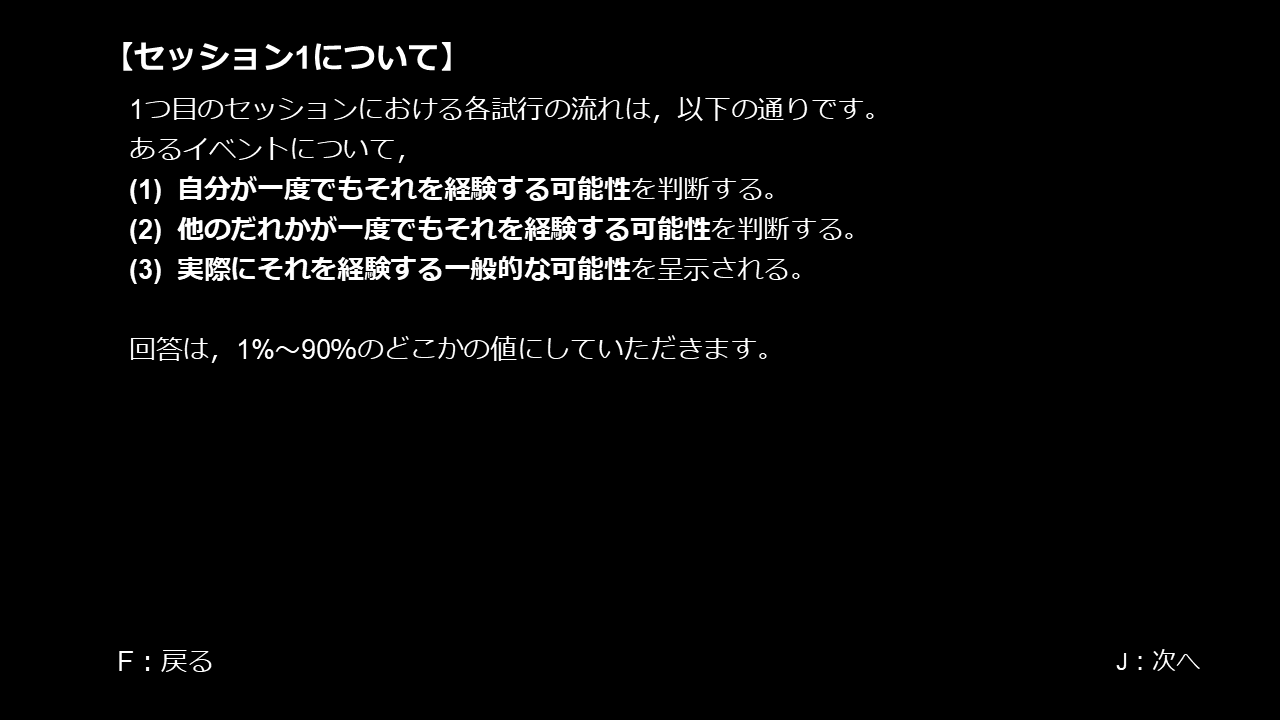
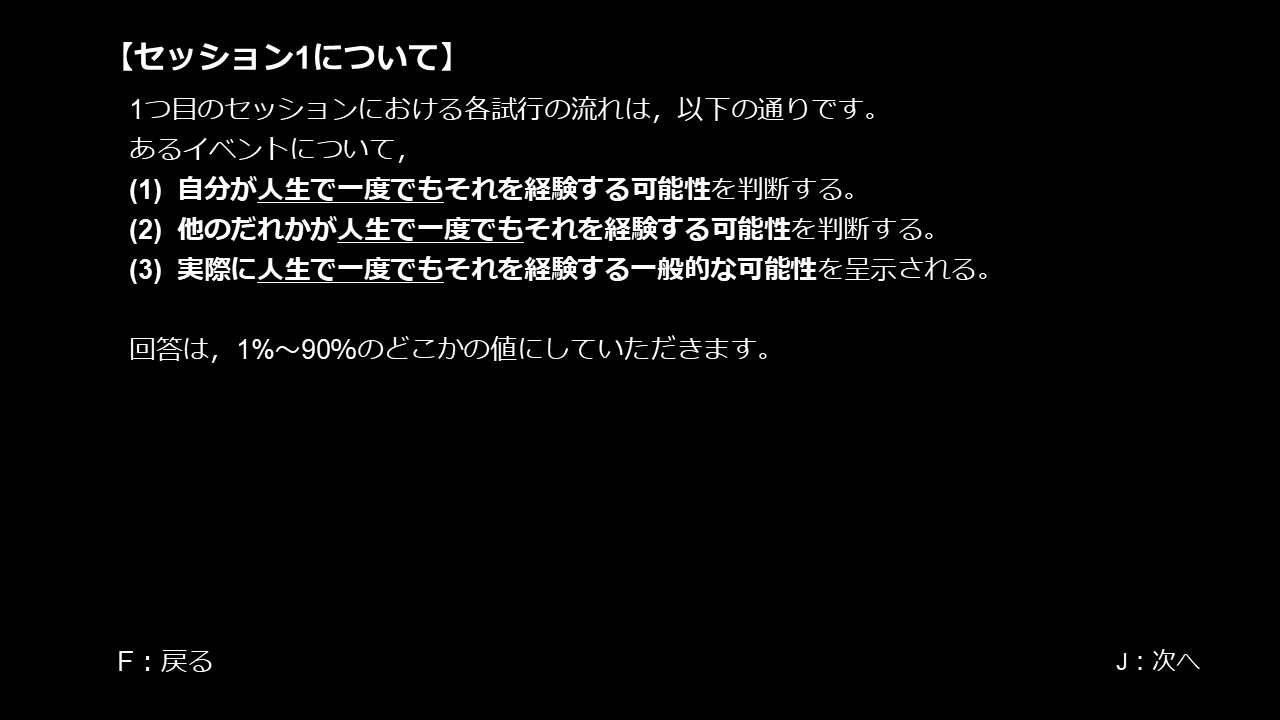
Changes in slides and codes

Changed region(s): [[0.1875, 0.2444, 0.7812, 0.3972]]

diff --git a/OP_dist.js b/OP_dist.js
@@ -200,8 +200,7 @@ const age = {
 const scale_sex = [
     "<p class='scale_text'>女性",
     "<p class='scale_text'>男性",
-    "<p class='scale_text'>どちらでもない",
-    "<p class='scale_text'>無回答"
+    "<p class='scale_text'>どちらでもない"
 ];
 
 const biol_sex = {
@@ -219,7 +218,7 @@ const biol_sex = {
         data.participantID = participantID;
         data.timing = "biol_sex";
         data.time = time;
-        data.biol_sex = data.response.biol_sex; // 0=f, 1=m, 2=neither, 3=noResponse
+        data.biol_sex = data.response.biol_sex; // 0=f, 1=m, 2=neither
     }
 };
 
@@ -322,8 +321,6 @@ const JOPS_trait = {
         let text;
         text = "<p class='inst_text'>下に呈示する項目が，<b><u>普段の";
         text += "自分</b></u>にどの程度当てはまるか，5段階から選んでお答えください。<br>";
-        text += "各項目について，それより前の項目のことは考えず，その項目一つに対する感覚に基づいて，";
-        text += "できる限り正確に答えるようにしてください。<br>";
         return text;
     },
     questions: [
@@ -380,6 +377,29 @@ const JOPS_trait = {
     }
 };
 
+let JOPS_qs_state = [
+    "<p class='scale_text'>自分の将来は、恵まれていると思う",
+    "<p class='scale_text'>自分の将来は、良いことが起こると思う",
+    "<p class='scale_text'>自分の将来に期待が持てる",
+    "<p class='scale_text'>自分の将来を楽しみにしている",
+    "<p class='scale_text'>これからの人生は良いものになるだろうと思う",
+    //"<p class='scale_text'>結果が予想できない時は、良い方向に期待する",
+    "<p class='scale_text'>私は将来に対して、前向きに考えている",
+    "<p class='scale_text'>私には、悪いことよりも良いことが起こると思う",
+    //"<p class='scale_text'>何かに取りかかる時は、成功するだろうと考える",
+    "<p class='scale_text'>将来、幸せになれると思う",
+    //"<p class='scale_text'>何かに取りかかる時は、失敗するだろうと考える",
+    "<p class='scale_text'>何をしても、うまくいかないことばかりを想像する",
+    //"<p class='scale_text'>何かを計画する時、失敗している自分の姿が頭に浮かぶ",
+    "<p class='scale_text'>今後のことを考えると、悪いことばかりが頭に浮かぶ",
+    "<p class='scale_text'>望ましくない、未来の自分の姿ばかりを想像する",
+    "<p class='scale_text'>私の将来は、暗いと思う",
+    "<p class='scale_text'>自分の将来に絶望している",
+    "<p class='scale_text'>結局、自分の目標は達成できないだろう",
+    "<p class='scale_text'>何もかもが悪い方向にしか進まないだろうと思う",
+    "<p class='scale_text'>私の望みはかなわないと思う"
+];
+
 // state optimism/pessimism
 const JOPS_state = {
     type: jsPsychSurveyLikert,
@@ -392,26 +412,22 @@ const JOPS_state = {
         return text;
     },
     questions: [
-      {prompt: JOPS_qs[0], name: 'jops_s_1', labels: scale_JOPS, required: true},
-      {prompt: JOPS_qs[1], name: 'jops_s_2', labels: scale_JOPS, required: true},
-      {prompt: JOPS_qs[2], name: 'jops_s_3', labels: scale_JOPS, required: true},
-      {prompt: JOPS_qs[3], name: 'jops_s_4', labels: scale_JOPS, required: true},
-      {prompt: JOPS_qs[4], name: 'jops_s_5', labels: scale_JOPS, required: true},
-      {prompt: JOPS_qs[5], name: 'jops_s_6', labels: scale_JOPS, required: true},
-      {prompt: JOPS_qs[6], name: 'jops_s_7', labels: scale_JOPS, required: true},
-      {prompt: JOPS_qs[7], name: 'jops_s_8', labels: scale_JOPS, required: true},
-      {prompt: JOPS_qs[8], name: 'jops_s_9', labels: scale_JOPS, required: true},
-      {prompt: JOPS_qs[9], name: 'jops_s_10', labels: scale_JOPS, required: true},
-      {prompt: JOPS_qs[10], name: 'jops_s_11', labels: scale_JOPS, required: true},
-      {prompt: JOPS_qs[11], name: 'jops_s_12', labels: scale_JOPS, required: true},
-      {prompt: JOPS_qs[12], name: 'jops_s_13', labels: scale_JOPS, required: true},
-      {prompt: JOPS_qs[13], name: 'jops_s_14', labels: scale_JOPS, required: true},
-      {prompt: JOPS_qs[14], name: 'jops_s_15', labels: scale_JOPS, required: true},
-      {prompt: JOPS_qs[15], name: 'jops_s_16', labels: scale_JOPS, required: true},
-      {prompt: JOPS_qs[16], name: 'jops_s_17', labels: scale_JOPS, required: true},
-      {prompt: JOPS_qs[17], name: 'jops_s_18', labels: scale_JOPS, required: true},
-      {prompt: JOPS_qs[18], name: 'jops_s_19', labels: scale_JOPS, required: true},
-      {prompt: JOPS_qs[19], name: 'jops_s_20', labels: scale_JOPS, required: true}
+      {prompt: JOPS_qs_state[0], name: 'jops_s_1', labels: scale_JOPS, required: true},
+      {prompt: JOPS_qs_state[1], name: 'jops_s_2', labels: scale_JOPS, required: true},
+      {prompt: JOPS_qs_state[2], name: 'jops_s_3', labels: scale_JOPS, required: true},
+      {prompt: JOPS_qs_state[3], name: 'jops_s_4', labels: scale_JOPS, required: true},
+      {prompt: JOPS_qs_state[4], name: 'jops_s_5', labels: scale_JOPS, required: true},
+      {prompt: JOPS_qs_state[5], name: 'jops_s_6', labels: scale_JOPS, required: true},
+      {prompt: JOPS_qs_state[6], name: 'jops_s_7', labels: scale_JOPS, required: true},
+      {prompt: JOPS_qs_state[7], name: 'jops_s_8', labels: scale_JOPS, required: true},
+      {prompt: JOPS_qs_state[8], name: 'jops_s_9', labels: scale_JOPS, required: true},
+      {prompt: JOPS_qs_state[9], name: 'jops_s_10', labels: scale_JOPS, required: true},
+      {prompt: JOPS_qs_state[10], name: 'jops_s_11', labels: scale_JOPS, required: true},
+      {prompt: JOPS_qs_state[11], name: 'jops_s_12', labels: scale_JOPS, required: true},
+      {prompt: JOPS_qs_state[12], name: 'jops_s_13', labels: scale_JOPS, required: true},
+      {prompt: JOPS_qs_state[13], name: 'jops_s_14', labels: scale_JOPS, required: true},
+      {prompt: JOPS_qs_state[14], name: 'jops_s_15', labels: scale_JOPS, required: true},
+      {prompt: JOPS_qs_state[15], name: 'jops_s_16', labels: scale_JOPS, required: true}
     ],
     button_label: '次へ',
     randomize_question_order: true,
@@ -429,19 +445,15 @@ const JOPS_state = {
         data.optS6 = Number(data.response.jops_s_6) + 1;
         data.optS7 = Number(data.response.jops_s_7) + 1;
         data.optS8 = Number(data.response.jops_s_8) + 1;
-        data.optS9 = Number(data.response.jops_s_9) + 1;
-        data.optS10 = Number(data.response.jops_s_10) + 1;
         // (state) pessimism
-        data.pesS1 = Number(data.response.jops_s_11) + 1;
-        data.pesS2 = Number(data.response.jops_s_12) + 1;
-        data.pesS3 = Number(data.response.jops_s_13) + 1;
-        data.pesS4 = Number(data.response.jops_s_14) + 1;
-        data.pesS5 = Number(data.response.jops_s_15) + 1;
-        data.pesS6 = Number(data.response.jops_s_16) + 1;
-        data.pesS7 = Number(data.response.jops_s_17) + 1;
-        data.pesS8 = Number(data.response.jops_s_18) + 1;
-        data.pesS9 = Number(data.response.jops_s_19) + 1;
-        data.pesS10 = Number(data.response.jops_s_20) + 1;
+        data.pesS1 = Number(data.response.jops_s_9) + 1;
+        data.pesS2 = Number(data.response.jops_s_10) + 1;
+        data.pesS3 = Number(data.response.jops_s_11) + 1;
+        data.pesS4 = Number(data.response.jops_s_12) + 1;
+        data.pesS5 = Number(data.response.jops_s_13) + 1;
+        data.pesS6 = Number(data.response.jops_s_14) + 1;
+        data.pesS7 = Number(data.response.jops_s_15) + 1;
+        data.pesS8 = Number(data.response.jops_s_16) + 1;
     }
 };
 
@@ -1027,7 +1039,7 @@ const actual_base_rate = {
             bad_tIdx += 1;
         };
         text = `<p class="event">【${event_list[tIdx_bu-1]}】<br><br>`;
-        text += `実際に一般に経験する可能性は <b><u>${true_BR}</b>%</u> です。`;
+        text += `実際に一般に人生で一度でも経験する可能性は <b><u>${true_BR}</b>%</u> です。`;
         text += "<br><br>確認できたらスペースキーを押してください。";
         text += `<p class='upper_left'>イベント <b>${tIdx_bu}</b> / ${tn_bu}</p>`;
         convert_success = 0; // reset
@@ -1045,7 +1057,7 @@ const actual_base_rate_prac = {
     type: jsPsychHtmlKeyboardResponse,
     stimulus: function() {
         text = `<p class="event">【${event_list_prac[tIdx_prac-1]}】<br><br>`;
-        text += `実際に一般に経験する可能性は <b><u>${BR_prac[tIdx_prac-1]}</b>%</u> です。`;
+        text += `実際に一般に人生で一度でも経験する可能性は <b><u>${BR_prac[tIdx_prac-1]}</b>%</u> です。`;
         text += "<br><br>確認できたらスペースキーを押してください。";
         return text; 
     },
@@ -1058,7 +1070,7 @@ const actual_base_rate_second = {
     stimulus: function() {
         let text;
         text = `<p class="event">【${event_list[tIdx_bu-1]}】<br><br>`;
-        text += `実際に一般に経験する可能性は <b><u>${true_BR_list[tIdx_bu-1]}</b>%</u> です。`;
+        text += `実際に一般に人生で一度でも経験する可能性は <b><u>${true_BR_list[tIdx_bu-1]}</b>%</u> です。`;
         text += "<br><br>確認できたらスペースキーを押してください。</p>";
         text += `<p class='upper_left'>イベント <b>${tIdx_bu}</b> / ${tn_bu}</p>`;
         return text;
@@ -1072,7 +1084,7 @@ const actual_base_rate_second_prac = {
     stimulus: function() {
         let text;
         text = `<p class="event">【${event_list_prac[tIdx_prac-1]}】<br><br>`;
-        text += `実際に一般に経験する可能性は <b><u>${BR_prac[tIdx_prac-1]}</b>%</u> です。`;
+        text += `実際に一般に人生で一度でも経験する可能性は <b><u>${BR_prac[tIdx_prac-1]}</b>%</u> です。`;
         text += "<br><br>確認できたらスペースキーを押してください。</p>";
         return text;
     },
@@ -1328,9 +1340,8 @@ const end_exp = {
         let text;
         text = `<p class='inst_text'>これで${time+1}回目の実験は終了です。大変お疲れさまでした。<br>`;
         text += "それでは最後に，データを転送していただきます。<br>";
-        text += "スペースキーを押して，文字が再度出てくるまでしばらくお待ちください。<br>";
-        text += "見えにくいですが，転送中は灰色のローディングマークが中央で回っています。<br>";
-        text += "通常は30秒ほどでデータ転送が完了します。</p>";
+        text += "スペースキーを押して，次の日本語の案内が再度出てくるまでしばらくお待ちください。<br>";
+        text += "通常は30秒以下でデータ転送が完了します。</p>";
         return text;
     },
     choices: [" "]
